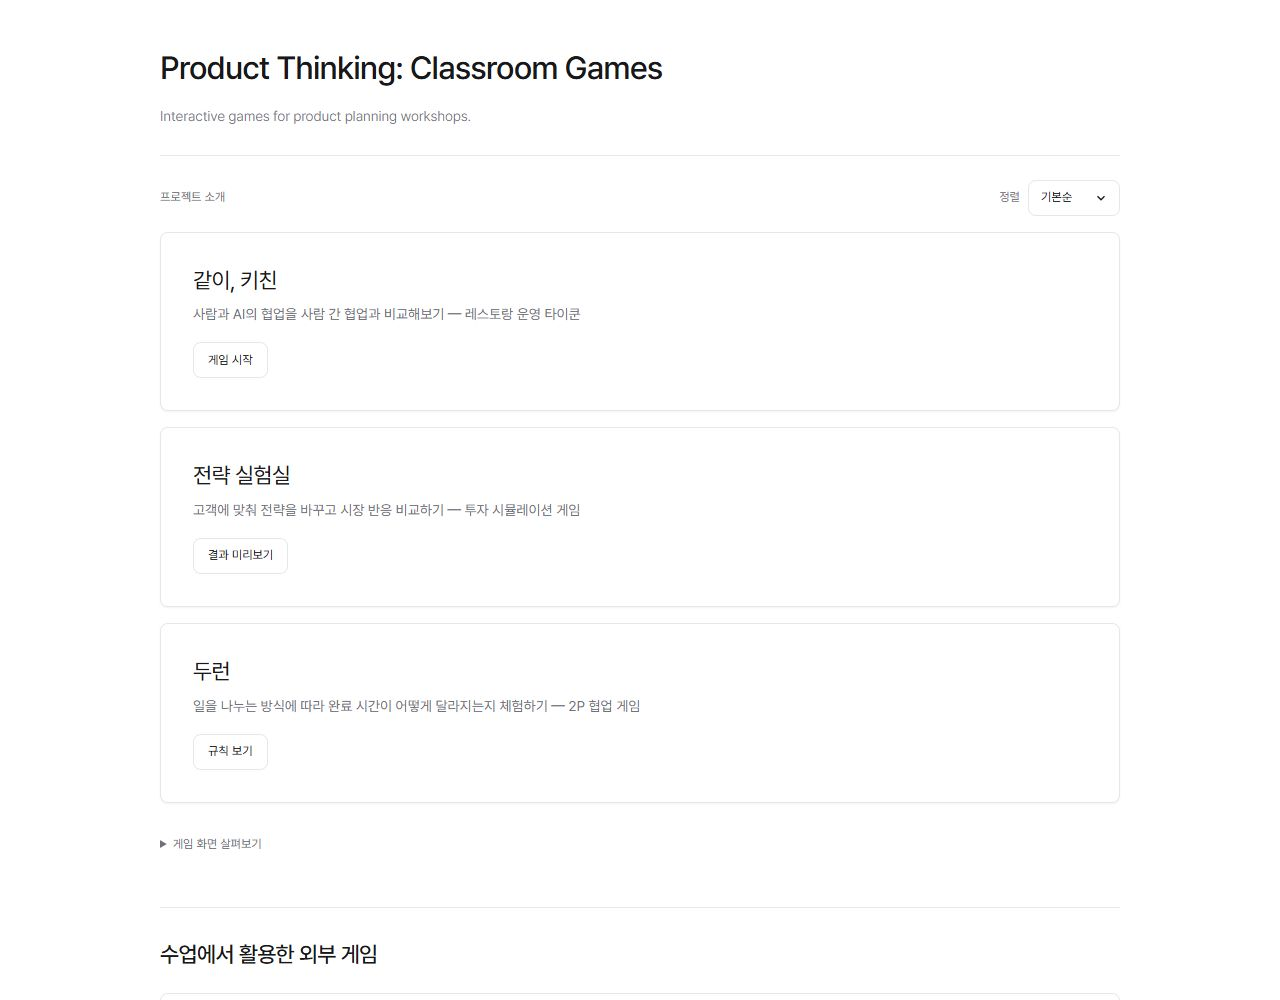
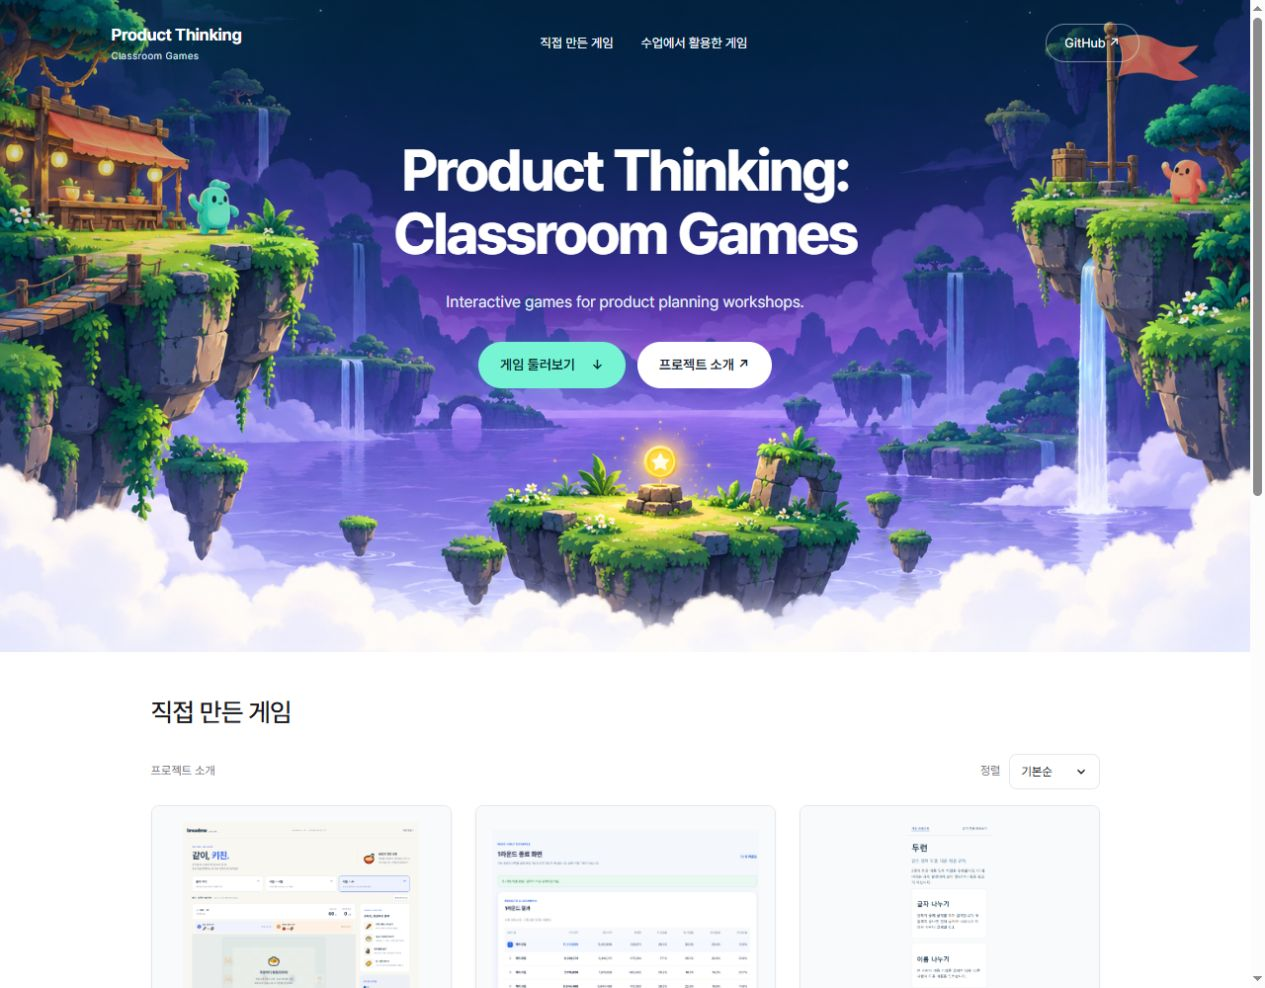
Redesign landing hero and square game preview cards

diff --git a/index.html b/index.html
@@ -1,14 +1,17 @@
 <!doctype html>
 <html lang="ko"><head><meta charset="utf-8"><meta name="viewport" content="width=device-width,initial-scale=1"><meta name="color-scheme" content="light"><title>Product Thinking: Classroom Games</title><link rel="stylesheet" href="style.css"></head><body>
 <a class="skip-link" href="#workspace-content">본문으로 이동</a>
+<section class="game-hero" aria-labelledby="hero-title">
+<nav class="hero-nav" aria-label="주요 메뉴"><a class="hero-brand" href="#">Product Thinking<span>Classroom Games</span></a><div><a href="#game-list">직접 만든 게임</a><a href="#external-heading">수업에서 활용한 게임</a></div><a class="hero-github" href="https://github.com/nana-park/product-thinking-classroom-games">GitHub ↗</a></nav>
+<div class="hero-copy"><h1 id="hero-title">Product Thinking:<br>Classroom Games</h1><p>Interactive games for product planning workshops.</p><div class="hero-actions"><a class="hero-primary" href="#game-list">게임 둘러보기 <span aria-hidden="true">↓</span></a><a class="hero-secondary" href="https://github.com/nana-park/product-thinking-classroom-games#readme">프로젝트 소개 ↗</a></div></div>
+</section>
 <main class="report-shell workspace" id="workspace-content" tabindex="-1">
-<header class="cover"><h1>Product Thinking: Classroom Games</h1><p class="subtitle">Interactive games for product planning workshops.</p></header>
+<header class="collection-heading"><h2>직접 만든 게임</h2></header>
 <div class="list-toolbar"><a class="project-link" href="https://github.com/nana-park/product-thinking-classroom-games#readme">프로젝트 소개</a><div class="company-sort"><label for="game-sort">정렬</label><span class="sort-control"><select id="game-sort"><option value="default">기본순</option><option value="name">가나다순</option></select><svg viewBox="0 0 16 16" fill="none" stroke="currentColor" stroke-width="1.5" aria-hidden="true"><path d="m4 6 4 4 4-4"/></svg></span></div></div>
 <ul class="company-list" id="game-list">
-<li class="company-entry" data-name="같이, 키친" data-order="0"><a class="company-card" href="games/together-kitchen/index.html"><span class="company-name">같이, 키친</span><span class="company-scope">사람과 AI의 협업을 사람 간 협업과 비교해보기 — 레스토랑 운영 타이쿤</span><span class="card-action">게임 시작</span></a></li>
-<li class="company-entry" data-name="전략 실험실" data-order="1"><a class="company-card" href="https://customer-value-classroom.nana-the-variation.chatgpt.site/preview/results"><span class="company-name">전략 실험실</span><span class="company-scope">고객에 맞춰 전략을 바꾸고 시장 반응 비교하기 — 투자 시뮬레이션 게임</span><span class="card-action">결과 미리보기</span></a></li>
-<li class="company-entry" data-name="두런" data-order="2"><a class="company-card" href="games/duorun/preview.html"><span class="company-name">두런</span><span class="company-scope">일을 나누는 방식에 따라 완료 시간이 어떻게 달라지는지 체험하기 — 2P 협업 게임</span><span class="card-action">규칙 보기</span></a></li>
+<li class="company-entry" data-name="같이, 키친" data-order="0"><a class="company-card" href="games/together-kitchen/index.html"><span class="game-preview"><img src="games/together-kitchen/screenshot.png" alt="같이, 키친 게임 화면"></span><span class="card-content"><span class="company-name">같이, 키친</span><span class="company-scope">사람과 AI의 협업을 사람 간 협업과 비교해보기 — 레스토랑 운영 타이쿤</span><span class="card-action">게임 시작</span></span></a></li>
+<li class="company-entry" data-name="전략 실험실" data-order="1"><a class="company-card" href="https://customer-value-classroom.nana-the-variation.chatgpt.site/preview/results"><span class="game-preview"><img src="games/strategy-lab/preview.png" alt="전략 실험실 가상 결과 화면"></span><span class="card-content"><span class="company-name">전략 실험실</span><span class="company-scope">고객에 맞춰 전략을 바꾸고 시장 반응 비교하기 — 투자 시뮬레이션 게임</span><span class="card-action">결과 미리보기</span></span></a></li>
+<li class="company-entry" data-name="두런" data-order="2"><a class="company-card" href="games/duorun/preview.html"><span class="game-preview"><img src="games/duorun/screenshot.png" alt="두런 규칙 소개 화면"></span><span class="card-content"><span class="company-name">두런</span><span class="company-scope">일을 나누는 방식에 따라 완료 시간이 어떻게 달라지는지 체험하기 — 2P 협업 게임</span><span class="card-action">규칙 보기</span></span></a></li>
 </ul>
-<details class="screenshots"><summary>게임 화면 살펴보기</summary><div class="capture-grid"><figure><img src="games/together-kitchen/screenshot.png" alt="같이, 키친의 현재 60초 게임 화면" loading="lazy"><figcaption>같이, 키친 · 정적 게임</figcaption></figure><figure><img src="games/strategy-lab/preview.png" alt="전략 실험실의 가상 예시 결과 화면" loading="lazy"><figcaption>전략 실험실 · 실제 수업 기록이 아닌 가상 결과</figcaption></figure></div></details>
-<section class="external-games" aria-labelledby="external-heading"><h2 id="external-heading">수업에서 활용한 외부 게임</h2><ul class="company-list"><li class="company-entry"><a class="company-card" href="https://userinyerface.com/"><span class="company-name">User Inyerface</span><span class="company-scope">불편한 화면을 직접 써보며 사용자를 방해하는 디자인 찾아보기 — UI 체험 게임</span><span class="card-action">원본 게임 시작</span></a></li></ul></section>
+<section class="external-games" aria-labelledby="external-heading"><h2 id="external-heading">수업에서 활용한 외부 게임</h2><ul class="company-list"><li class="company-entry"><a class="company-card" href="https://userinyerface.com/"><span class="game-preview external-preview" aria-label="User Inyerface 원본 링크"><span class="external-preview-title">User<br>Inyerface</span><span class="external-preview-line"></span><span class="external-preview-caption">userinyerface.com</span></span><span class="card-content"><span class="company-name">User Inyerface</span><span class="company-scope">불편한 화면을 직접 써보며 사용자를 방해하는 디자인 찾아보기 — UI 체험 게임</span><span class="card-action">원본 게임 시작</span></span></a></li></ul></section>
 </main><script>const list=document.getElementById('game-list');document.getElementById('game-sort').addEventListener('change',event=>{[...list.children].sort((a,b)=>event.target.value==='name'?a.dataset.name.localeCompare(b.dataset.name,'ko'):Number(a.dataset.order)-Number(b.dataset.order)).forEach(item=>list.appendChild(item));});</script></body></html>

diff --git a/style.css b/style.css
@@ -6,3 +6,11 @@
 body>header,body>main:not(.report-shell){max-width:1040px;margin:auto;padding:24px 40px}body>header{display:flex;justify-content:space-between;gap:16px;color:var(--muted);font-size:12px}.games{display:grid;grid-template-columns:1fr 1fr;gap:16px;margin-top:24px}.info{padding:32px;border:1px solid var(--line);border-radius:8px;box-shadow:var(--shadow)}.info h2{font-size:22px;font-weight:400}aside{margin-top:32px;color:var(--muted)}aside h2{font-size:20px;font-weight:500}
 @media(max-width:1023px){.report-shell{padding:32px 24px 48px}.company-card{padding:24px}}@media(max-width:767px){.report-shell{padding:24px 20px 40px}h1{font-size:28px}.subtitle{font-size:13px}.company-name{font-size:20px}select{height:44px}.capture-grid,.games{grid-template-columns:1fr}body>header,body>main:not(.report-shell){padding:24px 20px}}
 .card-action{display:inline-flex;align-items:center;min-height:36px;padding:6px 14px;margin-top:16px;border:1px solid var(--line);border-radius:8px;background:#fff;color:var(--heading);font-size:12px}.company-card:hover .card-action{background:var(--heading);border-color:var(--heading);color:#fff}.external-games{margin-top:40px;padding-top:28px;border-top:1px solid var(--line)}.external-games h2{font-size:22px;font-weight:500;margin:0 0 20px}.company-scope{font-size:14px;line-height:1.65}.screenshots{margin-top:20px}@media(max-width:767px){.card-action{min-height:44px}.external-games h2{font-size:20px}}
+
+/* Square preview cards retain the Career Workspace palette and typography. */
+.company-list{grid-template-columns:repeat(3,minmax(0,1fr));gap:24px}.company-entry{min-width:0;overflow:hidden}.company-card{display:flex;flex-direction:column;height:100%;padding:0}.game-preview{display:flex;align-items:center;justify-content:center;aspect-ratio:1 / 1;width:100%;padding:16px;background:var(--surface);border-bottom:1px solid var(--line);overflow:hidden}.game-preview img{display:block;width:100%;height:100%;object-fit:contain}.card-content{display:flex;flex:1;flex-direction:column;align-items:flex-start;padding:24px}.company-name{font-size:22px}.company-scope{margin-bottom:20px}.card-action{margin-top:auto}.external-preview{flex-direction:column;align-items:flex-start;justify-content:center;padding:32px;background:#f9fafb;color:var(--heading)}.external-preview-title{font-size:36px;line-height:1.05;letter-spacing:-.04em;font-weight:500}.external-preview-line{width:40px;height:1px;background:#a1a1aa;margin:24px 0 14px}.external-preview-caption{font-size:12px;color:var(--muted)}@media(max-width:1023px){.company-list{grid-template-columns:repeat(2,minmax(0,1fr));gap:20px}.company-card{padding:0}}@media(max-width:767px){.company-list{grid-template-columns:minmax(0,1fr);gap:24px}.card-content{padding:24px}.company-name{font-size:20px}}
+
+/* Hero composition follows the user-provided visual reference. Original generated artwork. */
+.game-hero{position:relative;min-height:660px;background:#06243d url('assets/hero-world.png') center bottom / cover no-repeat;color:white;isolation:isolate}.game-hero::before{content:"";position:absolute;inset:0;background:linear-gradient(180deg,rgba(1,15,25,.32),transparent 55%);z-index:-1}.hero-nav{max-width:1120px;margin:auto;padding:24px 40px;display:flex;align-items:center;justify-content:space-between;gap:24px;font-size:13px}.hero-nav a{text-decoration:none}.hero-brand{font-weight:700;font-size:17px;line-height:1.25;letter-spacing:-.02em}.hero-brand span{display:block;font-size:10px;font-weight:400;letter-spacing:.05em;margin-top:4px;color:#d5e6e9}.hero-nav>div{display:flex;gap:28px}.hero-nav>div a:hover{text-decoration:underline}.hero-github{border:1px solid #ffffff70;border-radius:999px;padding:8px 18px}.hero-copy{text-align:center;max-width:760px;margin:54px auto 0;padding:0 24px}.hero-copy h1{font-size:clamp(36px,4.6vw,62px);line-height:1.08;font-weight:750;letter-spacing:-.045em;color:white;text-wrap:balance}.hero-copy p{font-size:16px;line-height:1.6;color:#e1edf4;margin:24px 0}.hero-actions{display:flex;gap:12px;justify-content:center;margin-top:28px}.hero-actions a{min-height:46px;display:inline-flex;align-items:center;justify-content:center;gap:16px;padding:12px 22px;border-radius:999px;font-size:14px;font-weight:600;text-decoration:none}.hero-primary{background:#76f4d4;color:#082e32;box-shadow:0 0 24px #5ff7cd35}.hero-secondary{background:white;color:#182333}.hero-actions a:hover{transform:translateY(-2px)}.collection-heading h2{font-size:26px;font-weight:500;margin:0 0 20px}.report-shell{padding-top:40px}.game-preview{flex-shrink:0}.game-hero :focus-visible{outline-color:#91ffe1}
+@media(min-width:1500px){.game-hero{min-height:780px}.hero-copy{margin-top:72px}}
+@media(max-width:767px){.game-hero{min-height:620px;background-size:auto 620px}.hero-nav{padding:22px 20px}.hero-nav>div{display:none}.hero-github{font-size:12px;padding:8px 14px}.hero-brand{font-size:15px}.hero-copy{margin-top:48px;padding:0 20px}.hero-copy h1{font-size:38px;line-height:1.12}.hero-copy p{font-size:14px;max-width:280px;margin:22px auto}.hero-actions{gap:10px;margin-top:24px}.hero-actions a{font-size:13px;padding:12px 17px;gap:8px}.collection-heading h2{font-size:24px}.report-shell{padding-top:28px}}

diff --git a/docs/HERO-AND-CARDS.md b/docs/HERO-AND-CARDS.md
@@ -1,0 +1,11 @@
+# Hero and square cards
+
+The hero follows the composition of the user-provided visual reference: a dark illustrated game world, centered title and subtitle, two rounded calls to action, and a light transition into the content. The original reference image and its branding are not included in this repository. `assets/hero-world.png` is an original AI-generated decorative illustration, not a screenshot of any game in this collection.
+
+The card area retains Career Workspace's Pretendard typography, neutral colors, restrained borders, and spacing. All four previews use a 1:1 frame; game screenshots use `object-fit: contain`. The external User Inyerface card uses a typographic link preview, not copied game artwork or code.
+
+Chrome checks: desktop viewport 1280 × 1000, three columns, previews 302 × 302; mobile viewport 390 × 844, one column, previews 333 × 333. No horizontal overflow; all three screenshot assets loaded. Hero navigation and alphabetical/default sorting were checked. Existing game destinations and confirmed copy are preserved.
+
+Screenshots: `hub-desktop.jpg`, `hub-cards-desktop.jpg`, `hub-mobile.jpg`, `hub-cards-mobile.jpg`.
+
+The Duorun link remains a rules preview. No private service, backend, classroom data, or permissions were changed.

diff --git a/docs/DESIGN-REFERENCE.md b/docs/DESIGN-REFERENCE.md
@@ -13,3 +13,7 @@ Matched to [Career Workspace](https://nana-park.github.io/job-application-strate
 Game destinations and privacy boundaries are unchanged. Screenshots remain available in an expandable section so the default layout follows the reference's text-first list.
 
 Latest copy uses one purpose-focused sentence per game and the requested genre labels. Action labels distinguish play, result preview, and rules. Implementation-status labels and the old experience notice are removed. User Inyerface is listed separately as an external classroom activity; its original URL was verified on 2026-10-23. Classroom use is confirmed by the user’s conversation and D4/D5 context supplied to this task. No other external game was included without confirmed use.
+
+## Square preview layout
+
+The latest layout uses three columns on desktop, two on tablet, and one on mobile. Each card starts with a 1:1 preview; screenshots use object-fit: contain and neutral padding, so they are neither stretched nor cropped. Game titles, purpose sentences, and actions remain below the preview. The external game uses an original typographic link card rather than a copied screenshot.
